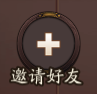
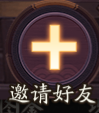
适配新版百鬼夜行 - 移除结界卡合成 - 增加高分辨率支持

diff --git a/onmyoji/utils.py b/onmyoji/utils.py
@@ -376,7 +376,7 @@ def get_screenshot(handle=None, filename=None, show=False):
 
 
 def match(img_rgb, template_rgb,
-          show_result=False, thresold=0.7, gray=True):
+          show_result=False, threshold=0.7, gray=True):
     """
     模板匹配
     接受RGB格式的图片作为输入，目前灰度处理后进行匹配，不包含颜色
@@ -396,7 +396,7 @@ def match(img_rgb, template_rgb,
         h, w, _ = template_gray.shape
 
     res = cv2.matchTemplate(img_gray, template_gray, cv2.TM_CCOEFF_NORMED)
-    loc = np.where(res >= thresold)
+    loc = np.where(res >= threshold)
     pos = []
     for pt in zip(*loc[::-1]):
         cv2.rectangle(img_rgb, pt,
@@ -410,7 +410,7 @@ def match(img_rgb, template_rgb,
     return pos
 
 
-def exists(template, handle=None, flag=0, thresold=0.7, random_pos=True):
+def exists(template, handle=None, flag=0, threshold=0.7, random_pos=True):
 
     handle = check_handle(handle)
 
@@ -419,7 +419,7 @@ def exists(template, handle=None, flag=0, thresold=0.7, random_pos=True):
 
     pos_body = get_window_pos(handle)
     resource = get_screenshot(handle)
-    pos = match(resource, template, thresold=thresold)
+    pos = match(resource, template, threshold=threshold)
     if len(pos) > 0:
         logging.debug("目标模板存在")
 
@@ -441,7 +441,7 @@ def exists(template, handle=None, flag=0, thresold=0.7, random_pos=True):
 
 def wait_until(template, timeout=10, handle=None,
                interval=1, flag=0,
-               thresold=0.7, notify=True,
+               threshold=0.7, notify=True,
                raise_except=True):
     '''
     flag 0 -> center
@@ -457,7 +457,7 @@ def wait_until(template, timeout=10, handle=None,
         resource = get_screenshot(handle)
 
         logging.debug("匹配中...")
-        pos = match(resource, template, thresold=thresold)
+        pos = match(resource, template, threshold=threshold)
         if len(pos) > 0:
             pos = pos[random.randint(0, len(pos) - 1)]
 
@@ -483,7 +483,7 @@ def wait_until(template, timeout=10, handle=None,
 
 
 def click_if_exists(template, handle=None,
-                    thresold=0.7,
+                    threshold=0.7,
                     click_random=10,
                     click_offset=(0, 0),
                     interval=0.5):
@@ -491,7 +491,7 @@ def click_if_exists(template, handle=None,
     Click if template exists.
     """
     handle = check_handle(handle)
-    _p = exists(handle=handle, template=template, thresold=thresold)
+    _p = exists(handle=handle, template=template, threshold=threshold)
     if _p is not None:
         _p = offset_position(_p, click_offset)
         random_sleep(interval, 0.2)

diff --git a/onmyoji/onmyoji_funcs.py b/onmyoji/onmyoji_funcs.py
@@ -59,7 +59,7 @@ def goto_scene(s, handle=None):
         goto_scene("ting_yuan", handle=handle)
         for next_scene in scene_conf[s]["route"]:
             if "0.98" in next_scene:
-                click_mark(next_scene, thresold=0.98, handle=handle)
+                click_mark(next_scene, threshold=0.98, handle=handle)
             else:
                 click_mark(next_scene, handle=handle)
             random_sleep(1.5, 0.2)
@@ -68,7 +68,7 @@ def goto_scene(s, handle=None):
         # raise RuntimeError("Scene cannot access.")
 
 
-def click_mark(mark, handle=None, thresold=0.7, interval=1, timeout=10):
+def click_mark(mark, handle=None, threshold=0.7, interval=1, timeout=10):
     """
     点击预设标志
     """
@@ -77,7 +77,7 @@ def click_mark(mark, handle=None, thresold=0.7, interval=1, timeout=10):
     handle = check_handle(handle)
 
     p = wait_until(os.path.join(cur_path, "img/" +
-                                mark + ".png"), thresold=thresold,
+                                mark + ".png"), threshold=threshold,
                    timeout=timeout, handle=handle)
     random_sleep(interval, 0.1)
     random_click(p, 10, handle=handle)
@@ -138,11 +138,11 @@ def set_current_mod(mod):
         os.environ["CURRENT_MOD"] = mod
 
 
-def win(timeout=10, handle=None, interval=1, thresold=0.7):
+def win(timeout=10, handle=None, interval=1, threshold=0.7):
     global cur_path
 
     handle = check_handle(handle)
 
     return wait_until(os.path.join(cur_path, "img", "sheng_li"),
                       timeout=timeout, interval=interval,
-                      notify=False, thresold=thresold, handle=handle)
+                      notify=False, threshold=threshold, handle=handle)

diff --git a/mods/kun_28/process.py b/mods/kun_28/process.py
@@ -36,7 +36,7 @@ def main_process(times=1, time_used=10):
 
     logging.info("Trig bonus.")
     if u.exists(os.path.join(img_dir, "bonus_deactive.png"),
-                thresold=0.98):
+                threshold=0.98):
         BONUS_ACTIVE = True
         bonus.process.main_process()
 
@@ -100,10 +100,10 @@ def main_process(times=1, time_used=10):
                 logging.info("Check if needed to change dog food.")
 
                 temp = u.exists(os.path.join(
-                    img_dir, "man_2.png"), thresold=0.99)
+                    img_dir, "man_2.png"), threshold=0.99)
                 if temp == None:
                     temp = u.exists(os.path.join(
-                        img_dir, "man_3.png"), thresold=0.99)
+                        img_dir, "man_3.png"), threshold=0.99)
                 if temp != None:
                     time.sleep(1)
                     huan_gou_liang.process.main_process()
@@ -139,7 +139,7 @@ def main_process(times=1, time_used=10):
             p = u.exists(os.path.join(img_dir, "tan_suo.png"))
             if p != None:
                 break
-            p = u.exists(os.path.join(img_dir, "bao_xiang.png"), thresold=0.8)
+            p = u.exists(os.path.join(img_dir, "bao_xiang.png"), threshold=0.8)
             if p != None:
                 logging.info("Discover treasure.")
                 u.random_sleep(1, 0.1)

diff --git a/mods/huan_gou_liang/process.py b/mods/huan_gou_liang/process.py
@@ -18,7 +18,7 @@ def main_process(times=1, time_used=7):
     u.random_click(p, 20)
 
     logging.info("Search for su_cai.png")
-    p = u.wait_until(os.path.join(img_dir, "su_cai.png"), thresold=0.99)
+    p = u.wait_until(os.path.join(img_dir, "su_cai.png"), threshold=0.99)
     u.random_sleep(1, 0.2)
     u.random_click(p, 20)
 
@@ -26,11 +26,11 @@ def main_process(times=1, time_used=7):
 
     for _ in range(4):
         logging.info("Search for man_2.png")
-        des = u.exists(os.path.join(img_dir, "man_2.png"), thresold=0.99)
+        des = u.exists(os.path.join(img_dir, "man_2.png"), threshold=0.99)
 
         if des == None:
             logging.info("Search for man_3.png")
-            des = u.exists(os.path.join(img_dir, "man_3.png"), thresold=0.99)
+            des = u.exists(os.path.join(img_dir, "man_3.png"), threshold=0.99)
 
         if des != None:
             des.y = des.y + 100
@@ -41,7 +41,7 @@ def main_process(times=1, time_used=7):
         # logging.info("Search for gou_liang_bai_dan.png")
         logging.info("Search for gou_liang_hong_dan.png")
         src = u.wait_until(os.path.join(
-            img_dir, "gou_liang_hong_dan.png"), thresold=0.99)
+            img_dir, "gou_liang_hong_dan.png"), threshold=0.99)
 
         if src != None:
             temp = u.Point(src.x, src.y-200)

diff --git a/mods/xie_zuo/process.py b/mods/xie_zuo/process.py
@@ -32,19 +32,19 @@ def main_process(accept=True, times=1, time_used=7):
     while (True):
         if not env.get("game_multi"):
             if accept:
-                u.click_if_exists(accept_path, thresold=0.9)
+                u.click_if_exists(accept_path, threshold=0.9)
             else:
-                u.click_if_exists(reject_path, thresold=0.9)
+                u.click_if_exists(reject_path, threshold=0.9)
             u.random_sleep(1, 0.2)
         else:
             l = GameInstance(env.get("game_leader_handle"), "xie_zuo")
             m = GameInstance(env.get("game_member_handle"), "xie_zuo")
             if accept:
-                l.click_if_exists(accept_path, thresold=0.9)
-                m.click_if_exists(accept_path, thresold=0.9)
+                l.click_if_exists(accept_path, threshold=0.9)
+                m.click_if_exists(accept_path, threshold=0.9)
             else:
-                l.click_if_exists(reject_path, thresold=0.9)
-                m.click_if_exists(reject_path, thresold=0.9)
+                l.click_if_exists(reject_path, threshold=0.9)
+                m.click_if_exists(reject_path, threshold=0.9)
             u.random_sleep(1, 0.2)
         if STOP.is_set():
             break

diff --git a/mods/match_test/process.py b/mods/match_test/process.py
@@ -5,15 +5,23 @@ import cv2
 import onmyoji.utils as u
 
 
-def main_process(threhold=0.7):
+def main_process(threshold=0.7):
+    if env.get("game_multi"):
+        leader_handle = env.get("game_leader_handle")
+        member_handle = env.get("game_member_handle")
 
-    leader_handle = env.get("game_leader_handle")
-    member_handle = env.get("game_member_handle")
+        l = GameInstance(leader_handle, "match_test")
+        m = GameInstance(member_handle, "match_test")
 
-    l = GameInstance(leader_handle, "match_test")
-    m = GameInstance(member_handle, "match_test")
+        template = cv2.imread(l.img_path("template"))
 
-    template = cv2.imread(l.img_path("template"))
+        l.match(l.get_screenshot(), template, show_result=True)
+        m.match(m.get_screenshot(), template, show_result=True)
+    else:
+        h = env.get("game_default_handle")
+        g = GameInstance(h, "match_test")
 
-    l.match(l.get_screenshot(), template, show_result=True)
-    m.match(m.get_screenshot(), template, show_result=True)
+        template = cv2.imread(g.img_path("template"))
+
+        g.match(g.get_screenshot(), template,
+                threshold=threshold, show_result=True)

diff --git a/ui.py b/ui.py
@@ -17,6 +17,16 @@ from onmyoji import utils as u
 from gui import multi as m
 from onmyoji import env
 
+import ctypes
+
+
+def SetProcessDPIAware():
+    # 设置高DPI敏感
+    ctypes.windll.user32.SetProcessDPIAware()
+
+
+SetProcessDPIAware()
+
 
 window = tk.Tk()
 window.title(env.get("game_ui_title"))
@@ -101,12 +111,13 @@ def init():
 
 def center_window(w, h):
     # 获取屏幕 宽、高
-    ws = window.winfo_screenwidth()
-    hs = window.winfo_screenheight()
+    # ws = window.winfo_screenwidth()
+    # hs = window.winfo_screenheight()
     # 计算 x, y 位置
-    x = (ws/2) - (w/2)
-    y = (hs/2) - (h/2)
-    window.geometry('%dx%d+%d+%d' % (w, h, x, y))
+    # x = (ws/2) - (w/2)
+    # y = (hs/2) - (h/2)
+    # window.geometry('%dx%d+%d+%d' % (w, h, x, y))
+    window.winfo_toplevel().wm_geometry("")
 
 
 def get_mods_list(path=env.get("game_mods_path")):

diff --git a/mods/bonus/process.py b/mods/bonus/process.py
@@ -14,7 +14,7 @@ def main_process(bonus=["jin_bi_100",
     img_dir = os.path.join(__file__, "..", "img")
 
     u.click_if_exists(os.path.join(img_dir, "jia_cheng.png"),
-                      thresold=0.7, click_random=2)
+                      threshold=0.7, click_random=2)
     u.random_sleep(1, 0.2)
 
     if type(bonus) == str:
@@ -22,11 +22,11 @@ def main_process(bonus=["jin_bi_100",
 
     for b in bonus:
         u.click_if_exists(os.path.join(img_dir, b+".png"),
-                          thresold=0.98, click_offset=(240, 0))
+                          threshold=0.98, click_offset=(240, 0))
         u.random_sleep(0.5, 0.2)
 
     u.click_if_exists(os.path.join(img_dir, "jia_cheng.png"),
-                      thresold=0.7, click_random=2)
+                      threshold=0.7, click_random=2)
     u.random_sleep(1, 0.2)
 
     logging.info("加成转换完成")

diff --git a/mods/hua_he_zhan/process.py b/mods/hua_he_zhan/process.py
@@ -11,15 +11,19 @@ import mods.jue_xing.process as jue_xing
 
 def main_process():
     img_dir = os.path.join(__file__, "..", "img")
+    # 百鬼夜行
     # cur_thread = threading.Thread(target=bai_gui.main_process, args=(1,))
     # cur_thread.start()
     # cur_thread.join()
+    # 御魂
     cur_thread = threading.Thread(target=yu_hun.main_process, args=(17,))
     cur_thread.start()
     cur_thread.join()
+    # 觉醒
     cur_thread = threading.Thread(target=jue_xing.main_process, args=(13,))
     cur_thread.start()
     cur_thread.join()
+    # 困28
     cur_thread = threading.Thread(target=kun_28.main_process, args=(7,))
     cur_thread.start()
     cur_thread.join()
@@ -39,3 +43,5 @@ def main_process():
     o.goto_scene("ting_yuan")
 
     logging.info("花合战完成")
+
+    u.toast("花合战完成")

diff --git a/mods/bai_gui_ye_xing/process.py b/mods/bai_gui_ye_xing/process.py
@@ -42,7 +42,7 @@ def main_process(times=1, handle=None):
             logging.info("匹配 xuan_ze_hao_you.png.")
             p = u.wait_until(os.path.join(
                 img_dir, "xuan_ze_hao_you.png"),
-                thresold=0.5)
+                threshold=0.5)
             u.random_sleep(1, 0.5)
             u.random_click(p, 5)
             try:

diff --git a/mods/you_qing_dian/process.py b/mods/you_qing_dian/process.py
@@ -23,7 +23,7 @@ def main_process():
         time_up = None
 
         p = o.exists(os.path.join(
-            img_dir, "you_qing_dian_fen_hong.png"), thresold=0.98)
+            img_dir, "you_qing_dian_fen_hong.png"), threshold=0.98)
         if p is not None:
             u.random_sleep(1, 0.2)
             u.random_click(p, 10)

diff --git a/mods/mod_test/process.py b/mods/mod_test/process.py
@@ -7,7 +7,7 @@ import mods.yu_hun_member.process as member
 import threading
 
 
-def main_process(thresold=0.7, type=0, times=5, time_used=35):
+def main_process(threshold=0.7, type=0, times=5, time_used=35):
     h = env.get("game_leader_handle")
     l = GameInstance(h, "mod_test")
     h = env.get("game_member_handle")
